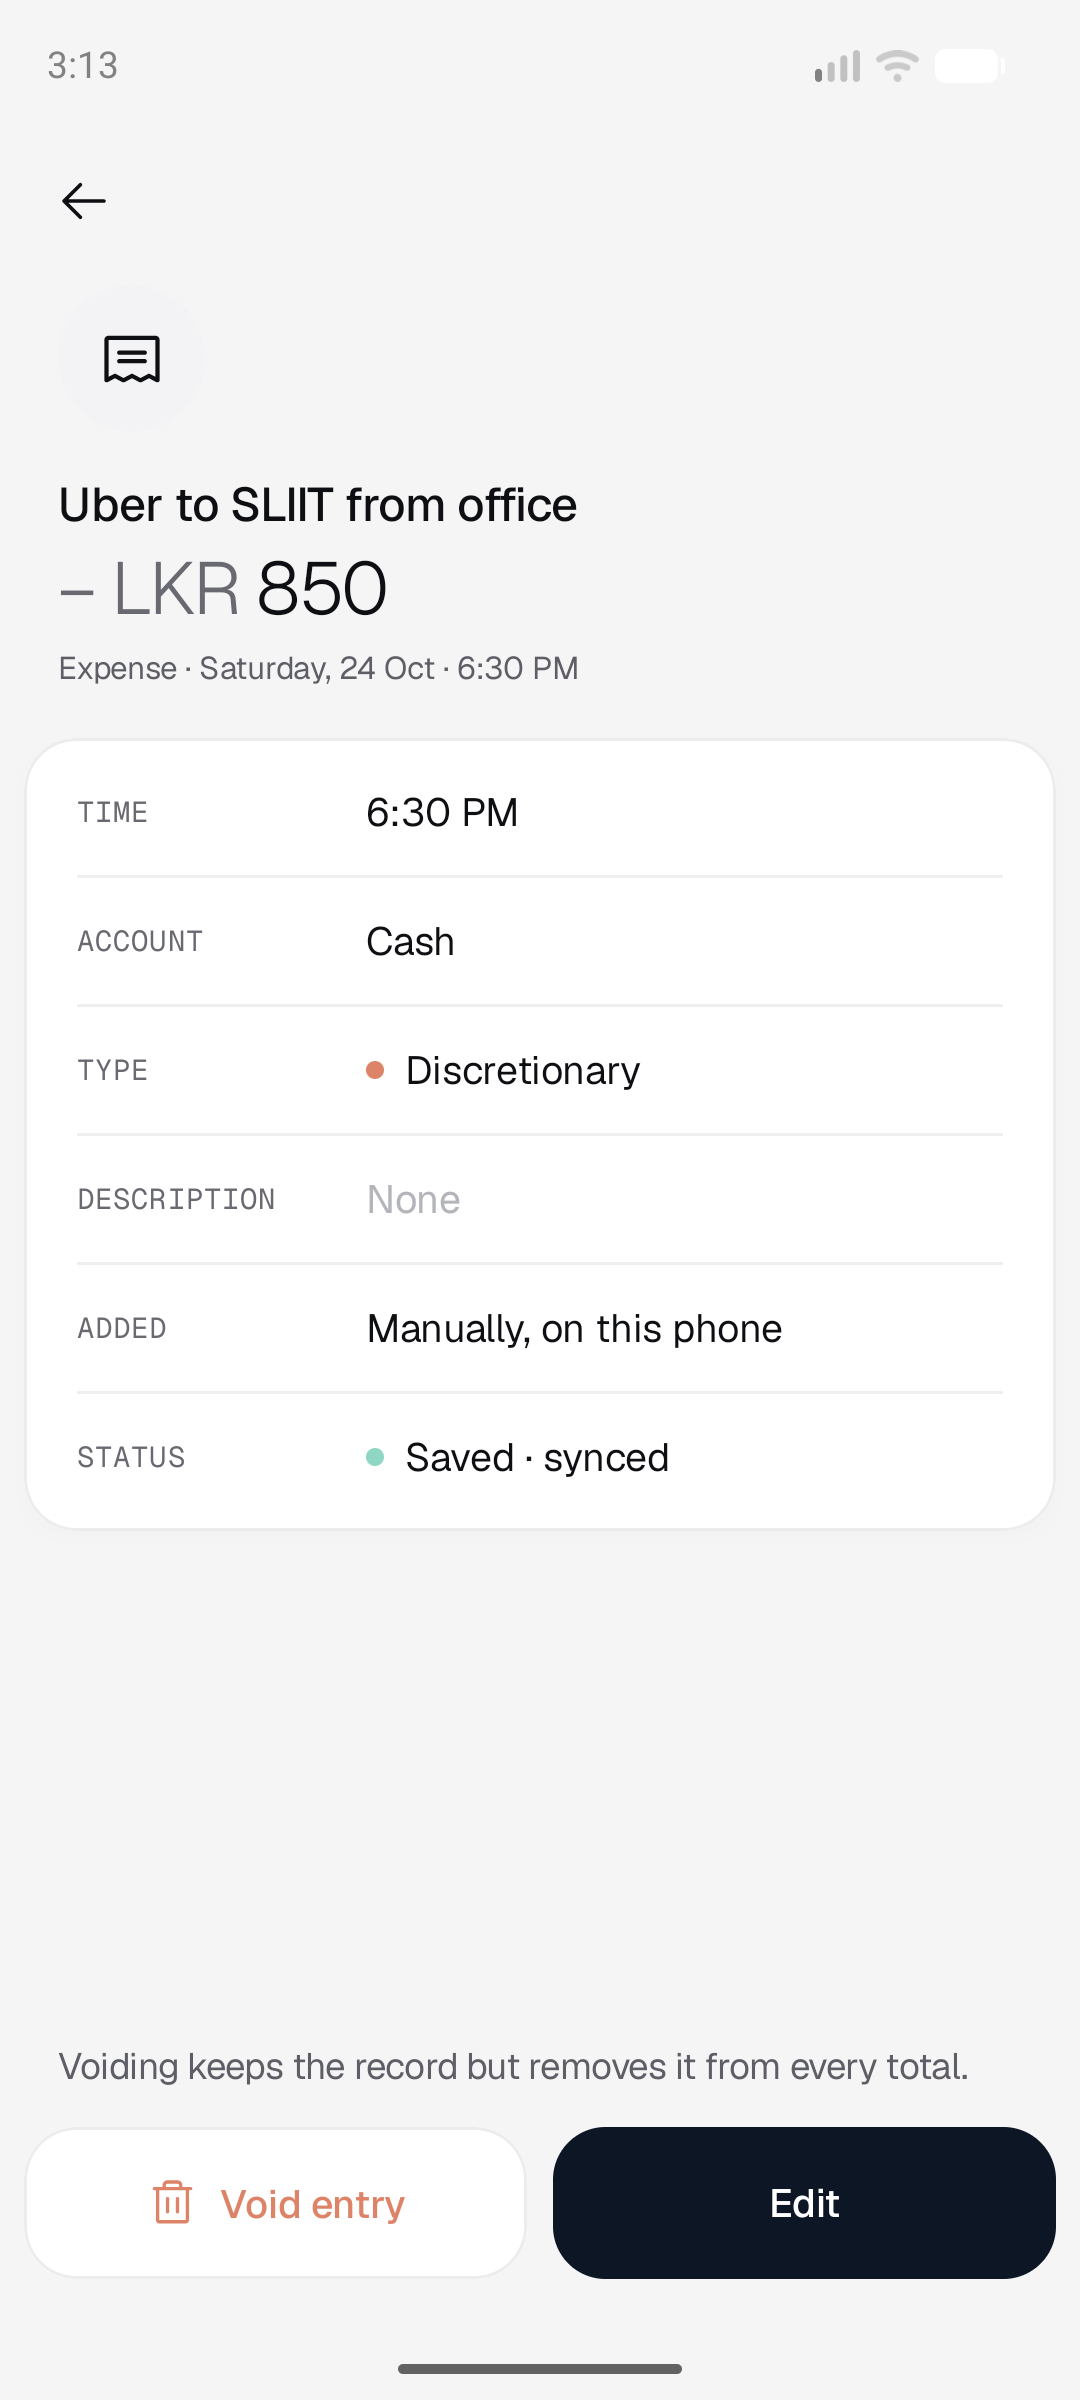
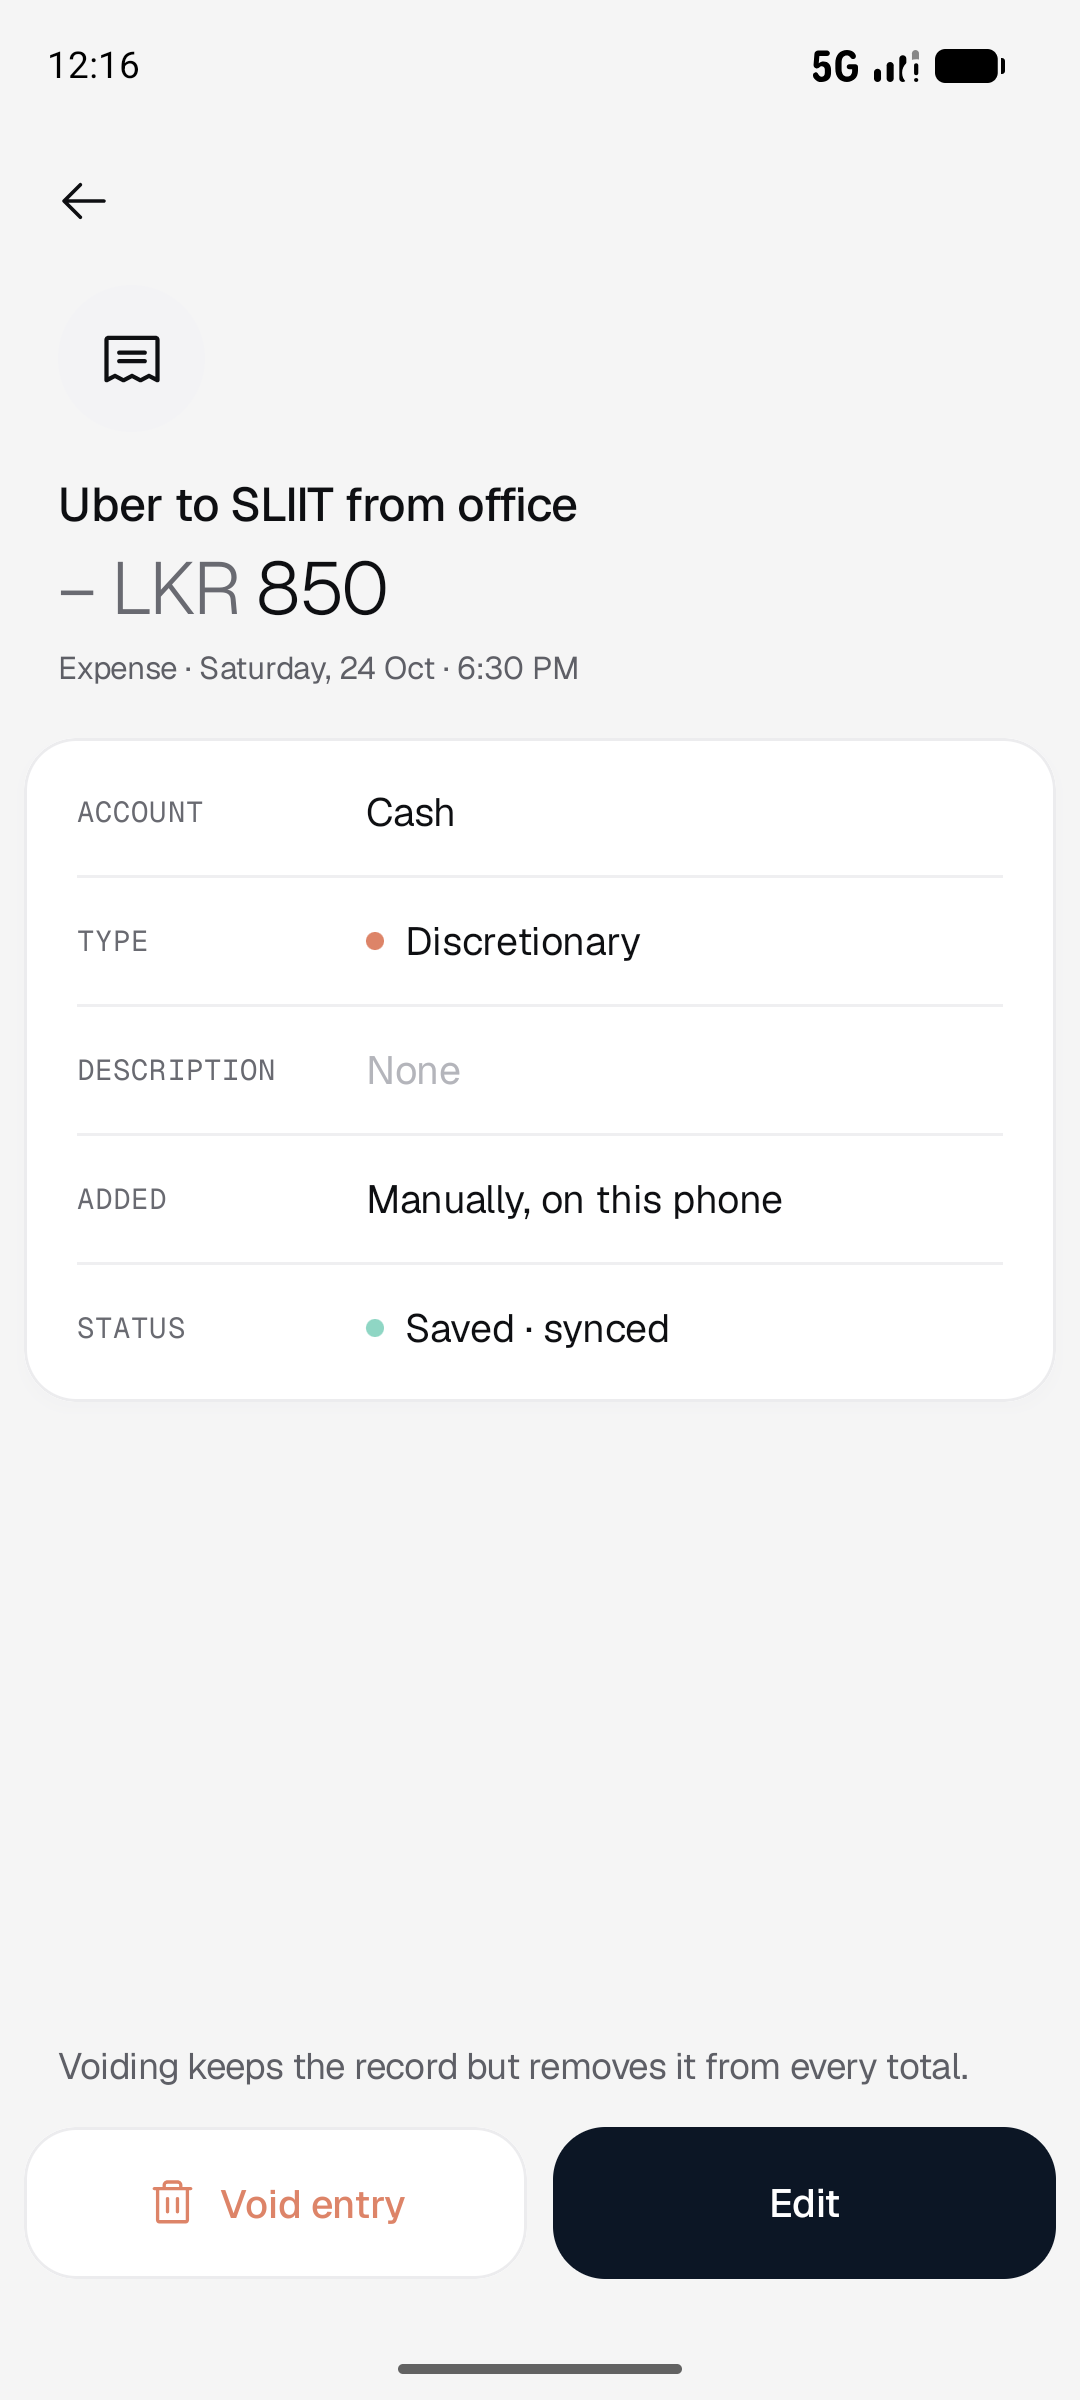
fix(activity): show entry time once in detail
The detail subtitle already shows the recorded time, matching Figma Z14,
so drop the duplicate Time row. Remove the income account-locked string
that account corrections left unused, and refresh the activity-time evidence.

diff --git a/app/src/main/java/com/example/zar/features/transactions/presentation/activity/screen/EntryDetailScreen.kt b/app/src/main/java/com/example/zar/features/transactions/presentation/activity/screen/EntryDetailScreen.kt
@@ -222,7 +222,7 @@ private fun DetailContent(state: EntryDetailUiState, detail: EntryDetail, action
             "${stringResource(EntryDisplay.typeLabel(tx.type))} · ${EntryDisplay.day(tx.date)}" + (tx.time?.let { " · ${EntryDisplay.time(it)}" } ?: ""),
             style = ZarType.bodyCaption.copy(lineHeight = 16.sp),
             color = colors.textSecondary,
-            modifier = Modifier.padding(top = 4.dp),
+            modifier = Modifier.padding(top = 4.dp).testTag("detail-when"),
         )
         if (entry.isCorrected) {
             val amountChanged = entry.original.amount != tx.amount
@@ -303,7 +303,6 @@ private fun DetailsCard(state: EntryDetailUiState, detail: EntryDetail, modifier
     val colors = ZarTheme.colors
     val none = stringResource(R.string.activity_none)
     val rows = buildList<@Composable () -> Unit> {
-        add { ValueRow(stringResource(R.string.entry_field_time), tx.time?.let(EntryDisplay::time) ?: stringResource(R.string.entry_time_not_set), placeholder = tx.time == null) }
         if (detail.isTransfer) {
             val isOut = entry.original.type == TransactionType.TRANSFER_OUT
             val from = if (isOut) detail.account else detail.counterpartAccount

diff --git a/app/src/androidTest/java/com/example/zar/features/transactions/ActivityScreensUiTest.kt b/app/src/androidTest/java/com/example/zar/features/transactions/ActivityScreensUiTest.kt
@@ -488,7 +488,7 @@ class ActivityScreensUiTest {
     @Test fun detailShowsRecordedTime() {
         val timed = entry(tx("timed", TransactionType.EXPENSE, 850, cash, "Uber to SLIIT from office").copy(time = java.time.LocalTime.of(18, 30)))
         showDetail(detailOf(timed))
-        compose.onNodeWithText("6:30 PM").performScrollTo().assertIsDisplayed()
+        compose.onNodeWithTag("detail-when").assertTextContains("· 6:30 PM", substring = true)
         captureCorrectionEvidence("activity-time")
     }
 
